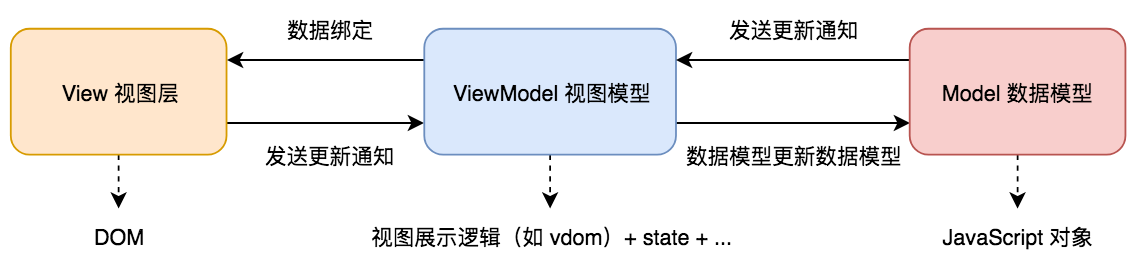
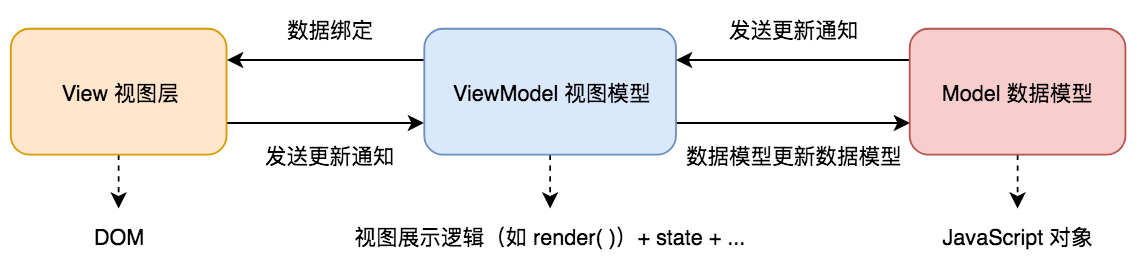
build: chatper mvvm pattern

Changed region(s): [[0.3078, 0.8327, 0.6464, 0.9219]]

diff --git a/advance/adv-mvvm/adv-mvvm.md b/advance/adv-mvvm/adv-mvvm.md
@@ -10,7 +10,7 @@
 
         ![mvvm-intro](mvvm.png)
 
-    注：如在 `Vue.js` 中，通过 `DOM listener` 监听 `View` 变化来通知 `ViewModel` 更新 `Model`，`Model` 通过数据绑定来通知 `ViewModel` 操作 `DOM`。
+    注：如在 `Vue.js` 中，通过 `DOM listener` 监听 `View` 变化来通知 `ViewModel` 更新 `Model`，`Model` 通过 `数据绑定`（`Data binding`）来通知 `ViewModel` 操作 `DOM`。
 
 2. `MVVM` 框架（`Model-View-ViewModel`（[wiki][wiki-mvvm]））三要素
 
@@ -21,6 +21,8 @@
     - 模板引擎
 
     - 渲染（`ViewModel` 中的视图展示逻辑）
+
+        - `ViewModel` 中的视图展示逻辑通过 `render` 函数来实现，其中 `render` 函数的**核心**是 `vdom`。
 
         - `vdom` 借由 `diff` 算法可以在操作 `DOM` 时带来极低的性能消耗（原因：章节 - [Virtual DOM](../adv-virtual-dom.md)）。
 
@@ -50,10 +52,166 @@
 
 （以 `Vue.js` 为例）
 
-## Vue.js 中响应式原理
+## 1. Vue.js 中响应式原理
 
-（[演示][vue-reactive]）
+（👉Repo: [演示][vue-reactive]）
 
-## Vue.js 如何解析模板
+## 2. Vue.js 如何解析模板
 
-## Vue.js 核心原理 —— 流程实现
+1. 模板
+
+    1. 本质：字符串
+
+    2. 内含**逻辑**语句，如 `v-if`、`v-for` 等语句
+    
+    3. 对比静态的 `HTML`，模板是**动态**的。
+
+    4. 最终的编译结果是 `HTML`。
+
+        - 模板必须转换为 JS 代码实现模板中的逻辑语句。
+        
+            - 前端三大语言中只有 JS 具有逻辑实现，即图灵完备语言。
+
+        - 三大语言中只有 JS （`render` 函数）能实现转换为 `HTML`。
+2. `render` 函数
+
+    1. 模板中的所有信息在 `render` 函数中均有体现
+
+         - 模板如下：
+        ```html
+        <div class="app">
+          <p>{{name}}</p>
+        </div>
+        ```
+        - `render` 函数体如下：
+        ```js
+        // with 用于指定 with 代码块中的上一级作用域，在查询当前作用域中未声明变量的声明时，起作用
+        // this 指向 vue 实例 vm
+        with(this) {
+          // _c 即 vm._c，调用 createElement()，即创建 vnode
+          return _c(
+            'div',
+            {
+              attrs: {'id': 'app'}
+            },
+            [
+              // name 即 vm.name 即 vm._data.name
+              // vm._v 即 createTextVNode(val)，创建 文本 vnode
+              // vm._s 即 toString(val)，转换变量 name 为字符串
+              _c('p', [_v(_s(name))])
+            ]
+          )
+        }
+        ```
+        注：暂只关心设计理念，模板转换为 JS 代码（`render` 函数）的过程属于工具化细节，暂不过多纠结。
+    
+    2. `Vue.js` 指令实现
+
+        ```html
+        <input v-model="msg" @keyup.enter="submit" type="text" id="inputPanel">
+        ```
+
+        ```js
+        // 拦截 Vue.js 源码中 `code.render` 可以得到当前模板转换后的 render 函数
+        with (this) { // this 即为 vm
+          return _c(
+            'input',
+            {
+              directives: [
+                {
+                  name: "model",
+                  rawName: "v-model",
+                  // v-model 绑定的值
+                  value: (msg),
+                  expression: "msg"
+                }
+              ], 
+              // HTML 标签字符串的属性
+              attrs: {
+                "type": "text",
+                "id": "inputPanel"
+              },
+
+              // DOM 树对象（由浏览器转换 HTML 字符串而来）自身的属性
+              domProps: {
+                // DOM 绑定 vm.msg
+                // 即当赋值 vm.msg 时，DOM 会做出相应改变
+                "value": (msg)
+              },
+
+              // 监听事件
+              on: {
+                "keyup": function ($event) {
+                  if (!('button' in $event)
+                    && _k($event.keyCode, "enter", 13, $event.key, "Enter")) return null;
+                  return submit($event)
+                },
+
+                // 由 v-model 指令添加的 input 事件监听
+                "input": function ($event) {
+                  if ($event.target.composing) return;
+                  // 当输入事件触发时，设置 vm.msg 的值
+                  msg = $event.target.value
+                }
+              }
+            }
+          )
+        ```
+
+        - v-model 实现
+
+            `v-model` 指令本质是一个语法糖，他是监听 `DOM` 树对象属性和监听 `input` 事件的封装。
+
+            ```js
+            domProps: {
+              // 即 document.querySelector('input').value = msg
+              "value": (msg)
+            }
+            // ...
+            on: { // 此处亦是 v-on 的实现
+              "input": function ($event) {
+                if ($event.target.composing) return;
+                // 当输入事件触发时，设置 vm.msg 的值
+                msg = $event.target.value
+              }
+            }
+            ```
+
+        - `v-for` 实现
+
+            `v-for` 本质是 `for 循环` 得到目标元素的 `render` 函数所构成的数组，该数组可用于父 `render` 函数中。
+            
+            （`v-if` 本质是 `if 语句判断`）
+
+            模板如下：
+
+            ```html
+            <ul>
+              <li v-for="item in items">{{item}}</li>
+            </ul>
+            ```
+
+            `render` 函数如下：
+
+            ```js
+            _c(
+              'ul',
+              // vm._l 即 renderList 函数
+              // 返回一个每项均为 li 的 render 函数的数组
+              _l((items),
+                function (item) {
+                  return _c(
+                    'li',
+                    [
+                      _v(_s(item))
+                    ]
+                  )
+                }
+              )
+            )
+            ```
+    3. `render` 函数（`vm._c`）逻辑
+
+        `Vue.js` 中的 `render` 函数是由 `snabbdom` 演变而来，这一点从 `render` 函数传参方式可以明显看出来。
+
+## 3. Vue.js 实现的整体流程
